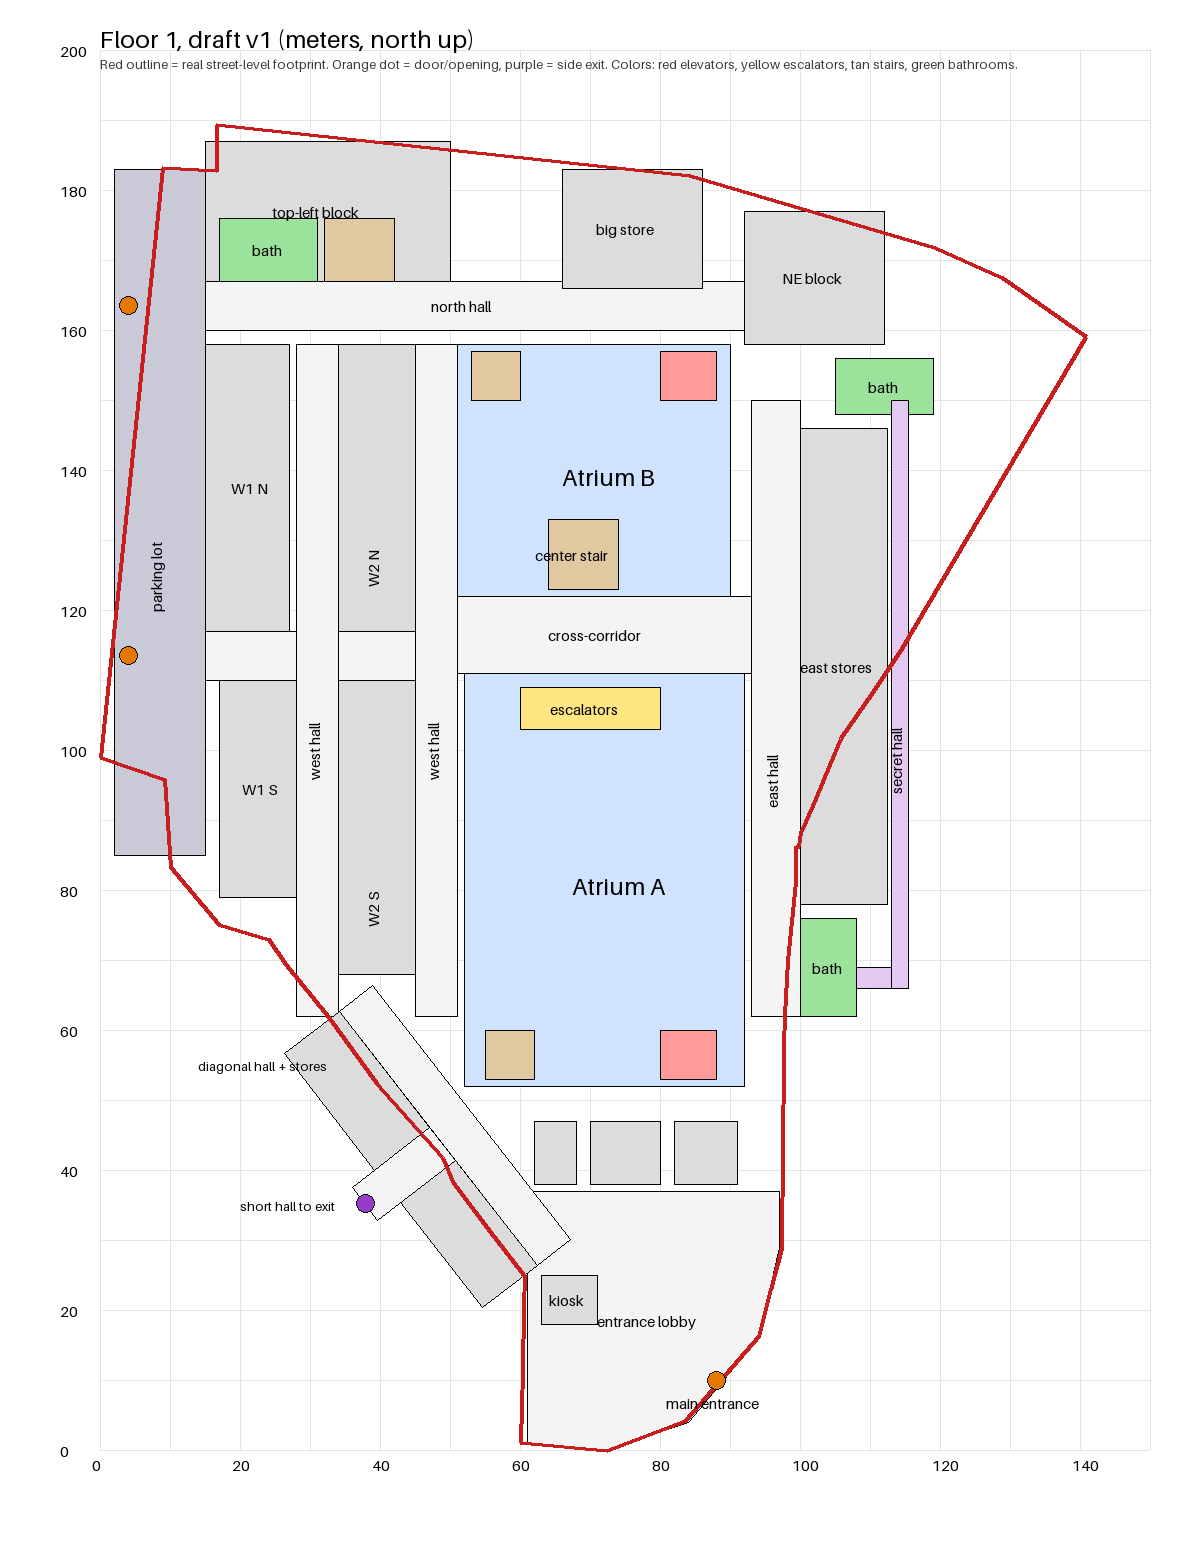
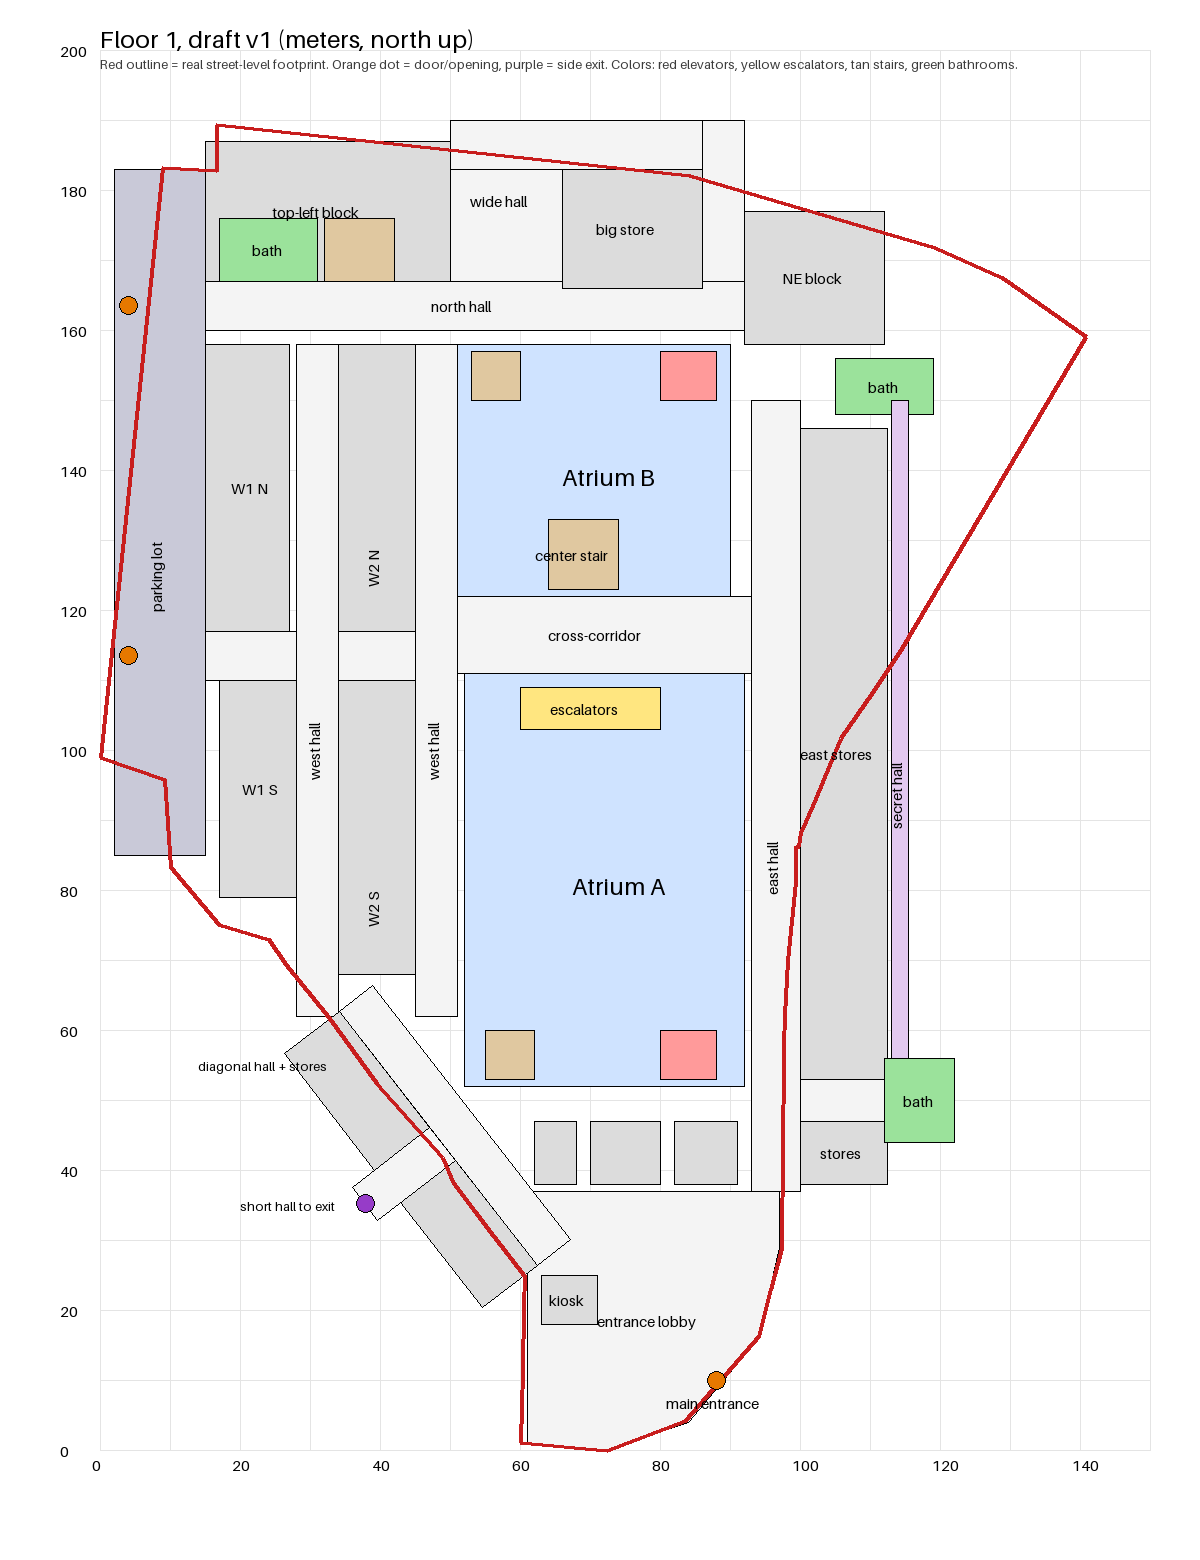
floor 1 plan update

diff --git a/docs/floorplans/floor1_notes.md b/docs/floorplans/floor1_notes.md
@@ -17,7 +17,8 @@ Sources: `floor1_sketch_v2.jpg` (labeled sketch: meanings; v2 is v1 plus the pur
 - **There is one more door to the outside on floor 1**, besides the main entrance and the two parking-lot openings. It is marked in purple on the sketch: on the south-west side of the entrance lobby, in the diagonal outer wall just west of the small walk-in kiosk, facing out toward the lower-left side of the building (the street or lot side, not the garage).
 - **West side, east to west (real):** a hall next to the atriums, the W2 store blocks, another hall, the W1 store blocks, then the parking lot.
 - **South-west diagonal hall (real):** a hall with stores runs diagonally from the westernmost hall along the outline to the entrance lobby. **The purple exit is in the middle of it**, at the end of a short hall with stores on both sides.
-- **East hall (real):** the hallway right of the atriums is an ordinary hall with stores, similar to the west one (stores on its east side).
+- **North loop (real):** a wide hall goes north from the north hall between the top-left block and the big store, continues east behind the big store, then comes back down beside the NE block to the north hall.
+- **East hall (real):** the hallway right of the atriums is an ordinary hall with stores, similar to the west one (stores on its east side). It runs all the way south to the entrance lobby. A short hall branches east from it, with stores on both sides, to the south-east bathrooms.
 - **The secret hallway is invented, for flavor.** It runs from the south-east bathrooms to the north-east bathrooms, hidden behind the east stores. Game-owned, service-style route.
 - **The unlabeled rectangles:** the one inside the north block is a **big store**; the small one near the entrance is a **small walk-in kiosk**.
 - **The escalators (yellow, along the north edge of Atrium A) are an up and down pair**, side by side.
